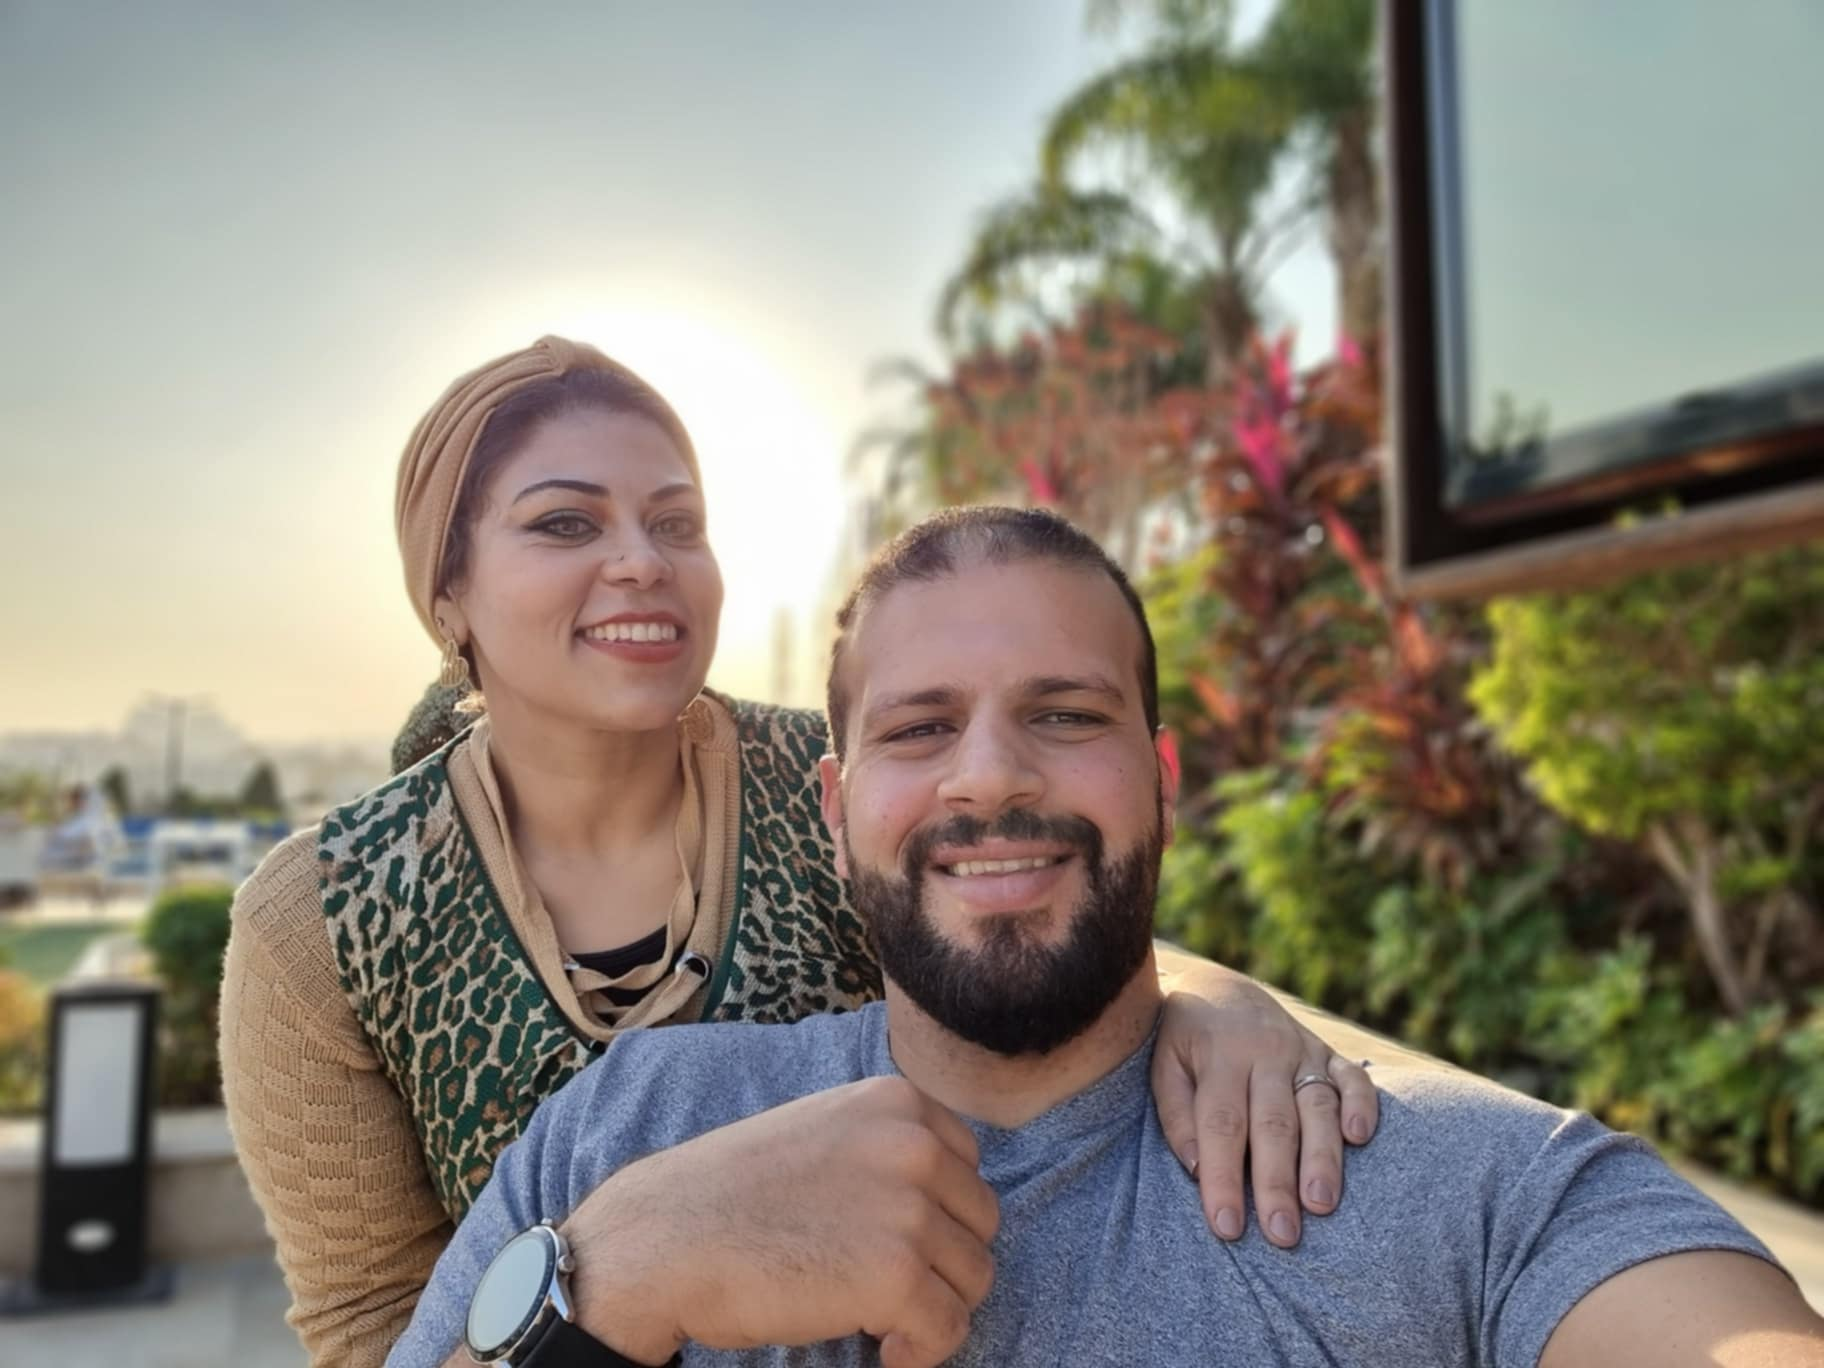
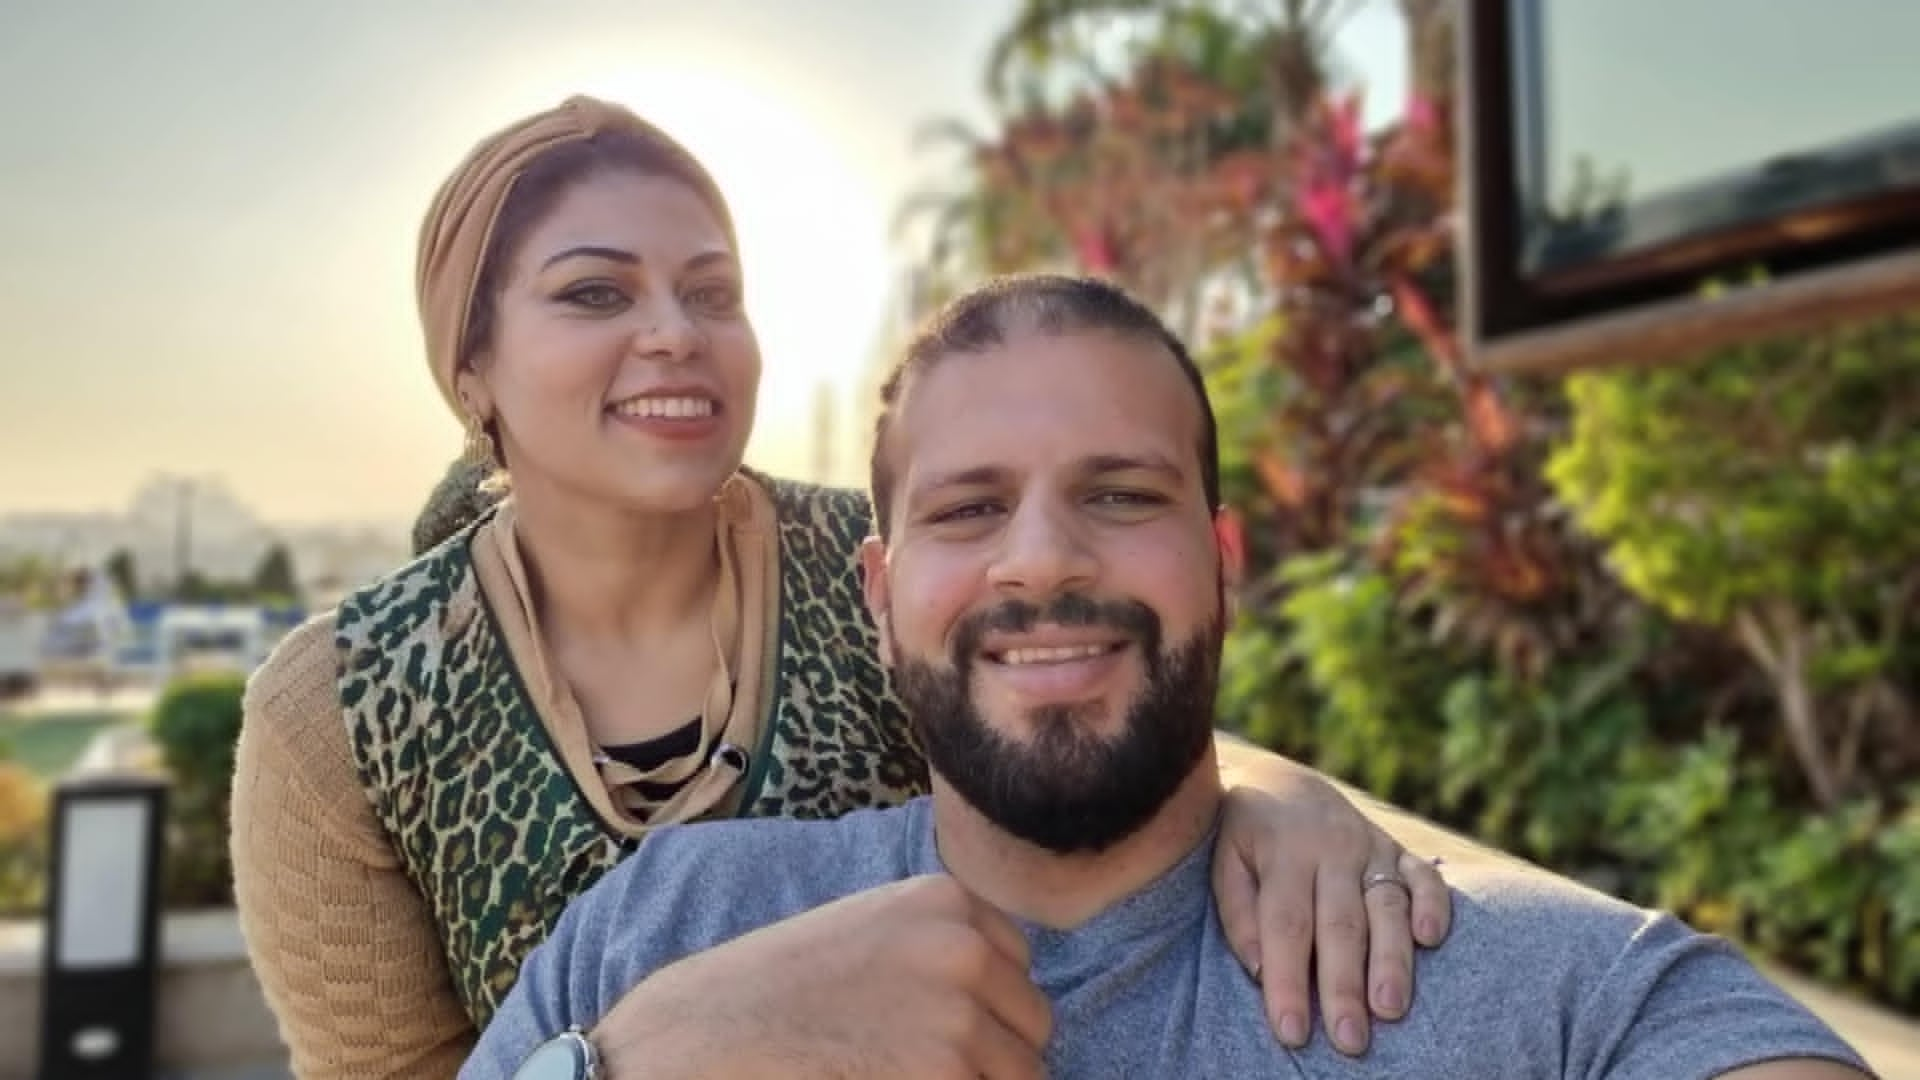
home page content

diff --git a/index.html b/index.html
@@ -188,21 +188,14 @@
                              
    				<li>
       				<!-- SLIDE IMAGE -->
-                    <div data-stellar-ratio="0.5" class="slide-image" style="background-image:url(images/couple.jpg);">
+                    <div data-stellar-ratio="0.5" class="slide-image" style="background-image:url(images/couple2.jpg);">
 					</div>
                     
                     <!-- SLIDE OVERLAY -->
                     <div class="slide-overlay" style="opacity:0.2"> </div>
     			</li>
                 
-                <li>
-      				<!-- SLIDE IMAGE -->
-                    <div data-stellar-ratio="0.5" class="slide-image" style="background-image:url(images/couple.jpg);">
-					</div>
-                    
-                    <!-- SLIDE OVERLAY -->
-                    <div class="slide-overlay" style="opacity:0.2"> </div>
-    			</li>
+
                 
          
     			
@@ -249,7 +242,7 @@
                              <div class="photo-item animation fadeInLeft">
 								
                              		<!--HIS-PHOTO-->
-                                	<img src="images/ahmed.png" alt="" class="hover-animation image-zoom-in">
+                                	<img src="images/ahmed.jpeg" alt="" class="hover-animation image-zoom-in">
                                             
                                     <!--PHOTO OVERLAY-->
                            			<div class="layer wh95 hidden-black-overlay hover-animation fade-in">
@@ -279,8 +272,9 @@
 							</div><!--END of PHOTO-ITEM-->                                    
                         	
                             <p class="couple-excerpt animation fadeInLeft">
-                            	<strong>I'm Ahmed. </strong>Lorem ipsum dolor sit amet, consectetur adipiscing elit. Integer ultrices malesuada ante quis pharetra. Nullam non bibendum dolor. Ut vel turpis accumsan, efficitur dolor fermentum, tincidunt metus. Etiam ut ultrices nibh.  Etiam aliquam mauris non hendrerit faucibus. Proin pulvinar.
-                            </p>
+                            	<strong>Ahmed:</strong>
+								Excited to begin a forever adventure with the love of my life
+							</p>
                             
                         </div>
                         
@@ -290,7 +284,7 @@
                              <div class="photo-item animation fadeInRight">
 								
                              		<!--HER-PHOTO-->
-                                	<img src="images/nessma.png" alt="" class="hover-animation image-zoom-in">
+                                	<img src="images/nessma.jpeg" alt="" class="hover-animation image-zoom-in">
                                             
                                     <!--PHOTO OVERLAY-->
                            			<div class="layer wh95 hidden-black-overlay hover-animation fade-in">
@@ -320,8 +314,8 @@
 							</div><!--END of PHOTO-ITEM-->  
                             
                             <p class="couple-excerpt animation fadeInRight">
-                            	<strong>I'm Nessma. </strong>Lorem ipsum dolor sit amet, consectetur adipiscing elit. Integer ultrices malesuada ante quis pharetra. Nullam non bibendum dolor. Ut vel turpis accumsan, efficitur dolor fermentum, tincidunt metus. Etiam ut ultrices nibh.  Etiam aliquam mauris non hendrerit faucibus. Proin pulvinar.
-                            </p>
+                            	<strong>Nessma: </strong>Found the missing piece I never knew I was looking for
+							</p>
                             
                         </div>
                     </div>
